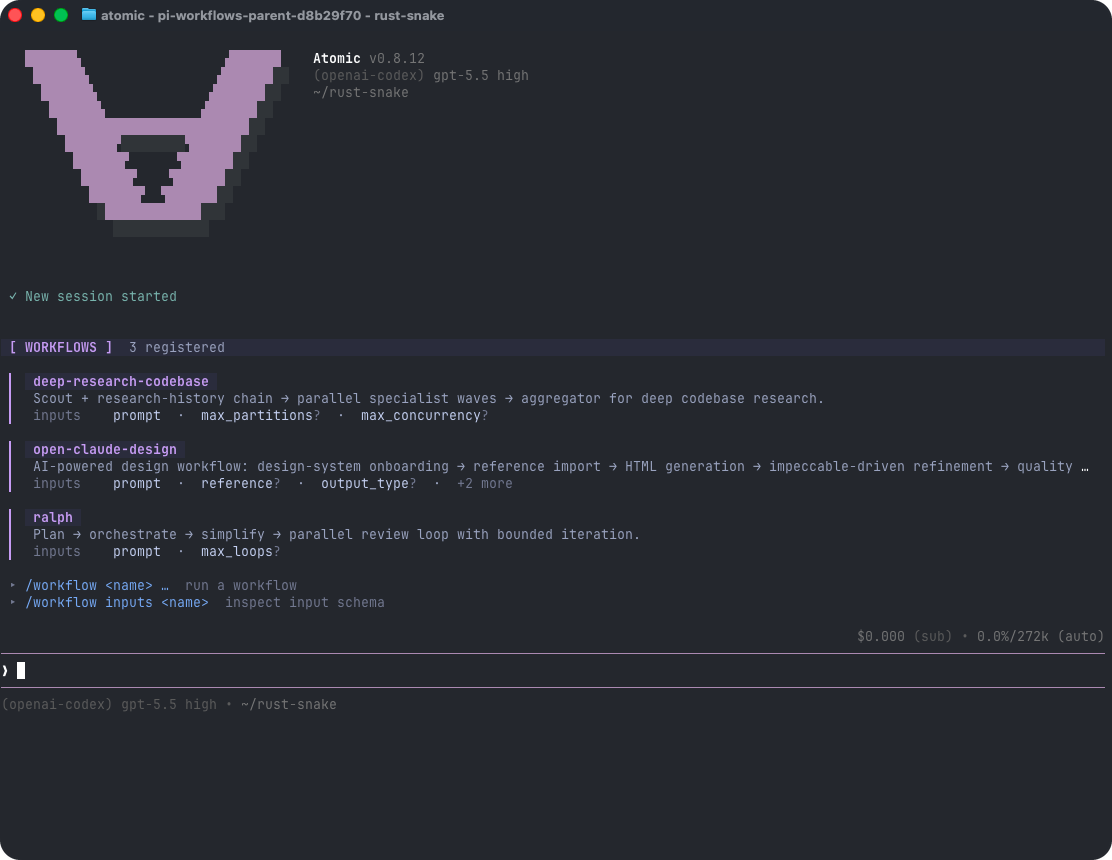
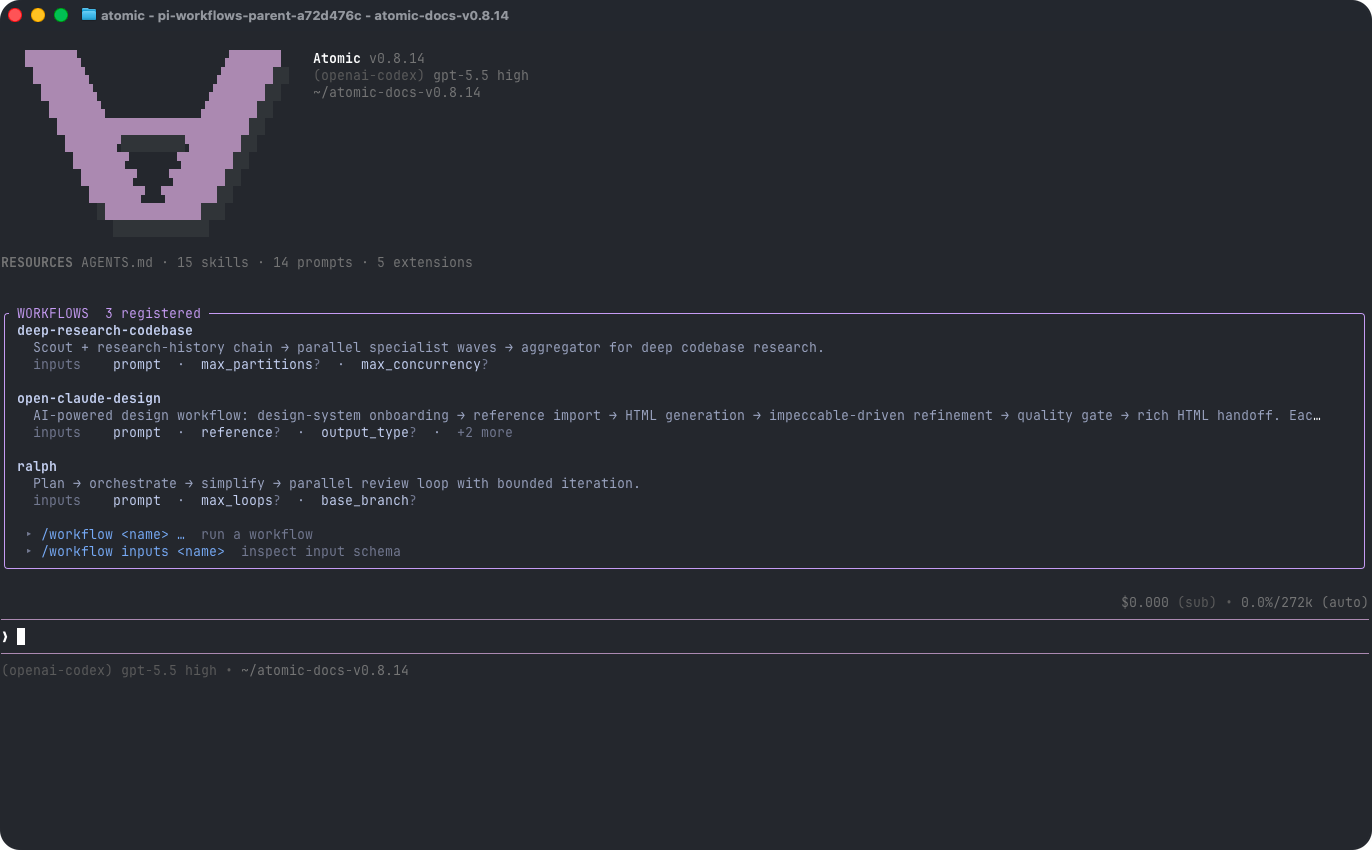
docs: update Atomic documentation assets
Assistant-model: GPT-5.5

diff --git a/packages/coding-agent/README.md b/packages/coding-agent/README.md
@@ -9,12 +9,6 @@
   <a href="https://discord.com/invite/3cU7Bz4UPx"><img alt="Discord" src="https://img.shields.io/badge/discord-community-5865F2?style=flat-square&logo=discord&logoColor=white" /></a>
   <a href="https://www.npmjs.com/package/@bastani/atomic"><img alt="npm" src="https://img.shields.io/npm/v/@bastani/atomic?style=flat-square" /></a>
 </p>
-<p align="center">
-  <a href="https://pi.dev">pi.dev</a> domain graciously donated by
-  <br /><br />
-  <a href="https://exe.dev"><img src="docs/images/exy.png" alt="Exy mascot" width="48" /><br />exe.dev</a>
-</p>
-
 > New issues and PRs from new contributors are auto-closed by default. Maintainers review auto-closed issues daily. See [CONTRIBUTING.md](../../CONTRIBUTING.md).
 
 ---
@@ -343,8 +337,6 @@ Use this skill when the user asks about X.
 Place in `~/.pi/agent/skills/`, `~/.agents/skills/`, `.pi/skills/`, or `.agents/skills/` (from `cwd` up through parent directories) or a [pi package](#pi-packages) to share with others. See [docs/skills.md](docs/skills.md).
 
 ### Extensions
-
-<p align="center"><img src="docs/images/doom-extension.png" alt="Doom Extension" width="600"></p>
 
 TypeScript modules that extend pi with custom tools, commands, keyboard shortcuts, event handlers, and UI components.
 

diff --git a/packages/coding-agent/docs/index.md b/packages/coding-agent/docs/index.md
@@ -1,3 +1,8 @@
+---
+title: "Overview"
+description: "Atomic documentation overview"
+---
+
 # Atomic Documentation
 
 Atomic is a minimal terminal coding harness. It is designed to stay small at the core while being extended through TypeScript extensions, skills, prompt templates, themes, and Atomic packages.